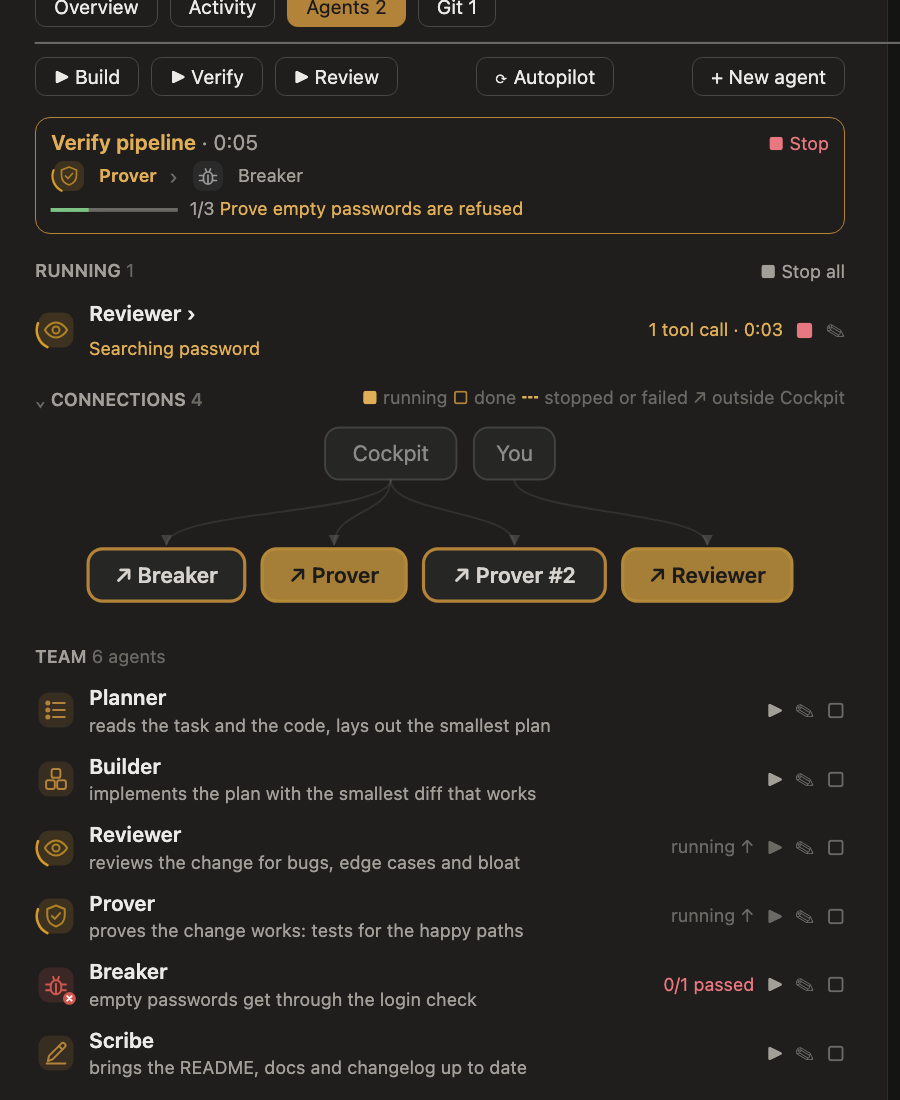
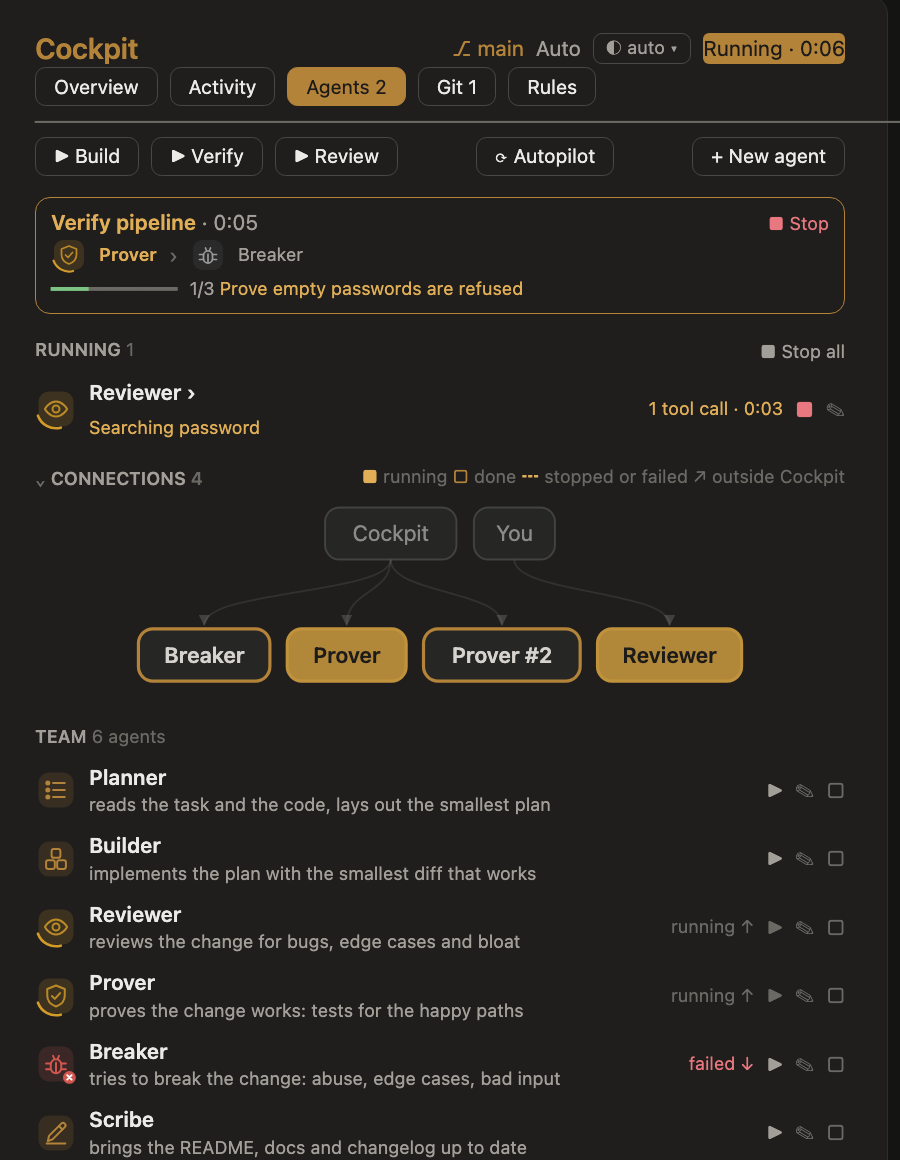
fix: show failed status in agent row label

diff --git a/cockpit/hooks/tabs/agents.tsx b/cockpit/hooks/tabs/agents.tsx
@@ -432,7 +432,7 @@ export function Agents($: $, v: V) {
           const copies = s.agents.filter(r => r.type === x.type && r.status === 'running')
           // The roster says what each expert does; its runs and their results are listed once, under Running and
           // Finished, and the row points there
-          const right = !a || live ? '' : `${a.status === 'done' ? 'done' : word(a).toLowerCase()} ↓`
+          const right = !a || live ? '' : `${st === 'failed' ? 'failed' : a.status === 'done' ? 'done' : word(a).toLowerCase()} ↓`
           const ticked = !!s.ui.selected[x.type]
           const rowEl = (
             <Box key={`ex-${x.type}`} alignItems="center" columnGap={sp(v, 1)}>
